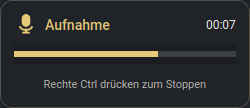
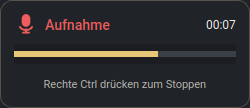
Use distinct red recording and orange processing status colours

Changed region(s): [[0.168, 0.1667, 0.448, 0.2778], [0.056, 0.1111, 0.14, 0.3333]]

diff --git a/tests/test_state_machine.py b/tests/test_state_machine.py
@@ -893,6 +893,26 @@ class TestMainWindowControl:
         QCoreApplication.sendPostedEvents(None, QEvent.Type.DeferredDelete)
         QTest.qWait(20)
 
+    def test_overlay_and_tray_use_red_recording_and_orange_processing(self, gui_app):
+        from collections import Counter
+
+        for state in ("RECORDING", "TRANSCRIBING", "LLM_REWRITING"):
+            gui_app._set_state(state, "test indicator colour")
+            overlay = gui_app._recording_overlay
+            assert overlay.isVisible()
+            image = overlay.icon.pixmap().toImage()
+            assert image == gui_app.tray_icon.icon().pixmap(24, 24).toImage()
+            opaque = [image.pixelColor(x, y).getRgb()[:3]
+                      for x in range(image.width()) for y in range(image.height())
+                      if image.pixelColor(x, y).alpha() > 240]
+            (red, green, blue), _ = Counter(opaque).most_common(1)[0]
+            if state == "RECORDING":
+                assert red > green * 1.5 and red > blue * 1.5
+            else:
+                assert red > green > blue and green > 120 and red - green > 40
+        gui_app._set_state("IDLE", "test finished")
+        assert not gui_app._recording_overlay.isVisible()
+
     def test_dictation_mode_syncs_window_and_tray(self, gui_app):
         win = gui_app._ensure_main_window()
         gui_app.set_dictation_mode(True)

diff --git a/app/theme.py b/app/theme.py
@@ -38,8 +38,10 @@ APP_TEXT_DIM = "#bab8b1"
 APP_TEXT_FAINT = "#8e8d88"
 
 STATE_IDLE = "#86c99a"
-STATE_RECORDING = BLITZ_400
-STATE_PROCESSING = BLITZ_300
+# Status colours must remain distinguishable from the gold branding and from
+# each other. The tray and recording overlay share these same values.
+STATE_RECORDING = "#f05c5c"
+STATE_PROCESSING = "#f0ad4e"
 STATE_ERROR = "#e88787"
 STATE_WARNING = "#e7bd70"
 

diff --git a/README.de.md b/README.de.md
@@ -71,8 +71,9 @@ den **Systemtray unsichtbar macht**.
   Pegelanzeige. Die Box bleibt bis zum Abschluss, Fehler oder Verwerfen sichtbar;
   die gesamte Laufzeit zählt weiter.
 - Das Mikrofon übernimmt **dasselbe Symbol und dieselben Statusfarben wie der
-  Tray**: Gold für Aufnahme und Hellgold für Verarbeitung. Grün steht für bereit,
-  Rot für einen Fehler.
+  Tray**: **Rot für Aufnahme**, **Orange für Transkription / KI-Verarbeitung**.
+  Grün steht für bereit, Hellrot für einen Fehler. Die Statusfarben sind von den
+  goldenen Bedienelementen getrennt.
 - Blitztext startet nur im Systemtray; das Hauptfenster wird bei Bedarf geöffnet.
 
 Die Bilder sind Aufnahmen der tatsächlichen Qt-Oberfläche mit demonstriertem
@@ -235,17 +236,17 @@ Das Mikrofon im System-Tray ist dein Indikator für den aktuellen Zustand:
       </td>
       <td align="center" width="25%">
         <img src="docs/screenshots/linux/tray-recording.png" width="60"><br><br>
-        <b>Gold</b> (RECORDING)<br>
+        <b>Rot</b> (RECORDING)<br>
         <i>Aufnahme läuft aktiv.</i>
       </td>
       <td align="center" width="25%">
         <img src="docs/screenshots/linux/tray-processing.png" width="60"><br><br>
-        <b>Pale gold</b> (TRANSCRIBING / LLM_REWRITING)<br>
+        <b>Orange</b> (TRANSCRIBING / LLM_REWRITING)<br>
         <i>Magie läuft (Transkription / KI-Umformulierung).</i>
       </td>
       <td align="center" width="25%">
         <img src="docs/screenshots/linux/tray-error.png" width="60"><br><br>
-        <b>Rot</b> (ERROR)<br>
+        <b>Hellrot</b> (ERROR)<br>
         <i>Ups, etwas ist schiefgelaufen.</i>
       </td>
     </tr>
@@ -297,7 +298,7 @@ Das Hauptfenster ist ein kompaktes, rahmenloses Desktop-Widget mit einheitlicher
 - **Zentrales Gold-Mikrofon:** Markanter kreisrunder Button mit metallischem Farbverlauf und Blitz-Aussparung. Klick startet oder beendet die Aufnahme.
 - **Dynamische visuelle Rückmeldung:**
   - **Bereit (IDLE):** Grüner Statuspunkt und Zeitanzeige (`Bereit: 00:00`).
-  - **Aufnahme (RECORDING):** Gelber Statuspunkt, sekundengenaue Zeitanzeige und animierte Wellenbalken links und rechts des Mikrofons.
+  - **Aufnahme (RECORDING):** Roter Statuspunkt, sekundengenaue Zeitanzeige und animierte Wellenbalken links und rechts des Mikrofons.
   - **Verarbeitung (TRANSCRIBING):** Rotierender goldener Kreisbogen um das Mikrofon (`Transkribiere…`).
 - **Umschalter Lokal | Mit KI:** Zwei Knöpfe direkt unter dem Mikrofon. **Lokal** = Transkription ohne KI-Nachbearbeitung; mit einem lokalen Spracherkennungs-Backend bleibt das Audio auf dem Rechner. **Mit KI** ergänzt die Bearbeitung durch den konfigurierten KI-Endpunkt, zum Beispiel den GX10. Die gewählte Seite ist gold; die Zustandszeile darunter (zum Beispiel `Lokal · Whisper base` oder `Mit KI · OpenAI · Verbessern`) zeigt, was die nächste Aufnahme tut, und öffnet per Klick das Detail-Popup. Hotkey-Workflows stellen den Umschalter auf die passende Seite, während der Aufnahme ist er gesperrt.
 - **Kompakte Werkzeugleiste:**

diff --git a/README.md b/README.md
@@ -66,8 +66,9 @@ full-screen application, or the desktop layout keeps the **system tray out of vi
 - After recording: the level is replaced by **Transcribing…** or
   **Processing with AI…**. The box stays open and the total elapsed time continues
   until the workflow finishes, fails, or is discarded.
-- The microphone uses the **same icon and status colours as the tray**: gold for
-  recording and pale gold for processing. Green means ready; red means an error.
+- The microphone uses the **same icon and status colours as the tray**: **red for
+  recording** and **orange for transcription / AI processing**. Green means ready;
+  pale red means an error. The normal colour scheme is separate from gold UI accents.
 - Blitztext starts in the tray; the main window opens only on request.
 
 These are captures of the actual Qt widgets with a synthetic demonstration level
@@ -227,17 +228,17 @@ The microphone in the system tray is your indicator of the current state:
       </td>
       <td align="center" width="25%">
         <img src="docs/screenshots/linux/tray-recording.png" width="60"><br><br>
-        <b>Gold</b> (RECORDING)<br>
+        <b>Red</b> (RECORDING)<br>
         <i>Recording is actively running.</i>
       </td>
       <td align="center" width="25%">
         <img src="docs/screenshots/linux/tray-processing.png" width="60"><br><br>
-        <b>Pale gold</b> (TRANSCRIBING / LLM_REWRITING)<br>
+        <b>Orange</b> (TRANSCRIBING / LLM_REWRITING)<br>
         <i>Magic in progress (transcription / AI rephrasing).</i>
       </td>
       <td align="center" width="25%">
         <img src="docs/screenshots/linux/tray-error.png" width="60"><br><br>
-        <b>Red</b> (ERROR)<br>
+        <b>Pale red</b> (ERROR)<br>
         <i>Oops, something went wrong.</i>
       </td>
     </tr>
@@ -289,7 +290,7 @@ The main window is a compact, frameless desktop widget with a consistent dark lo
 - **Central gold microphone:** Prominent circular button with metallic gradient and lightning bolt cut-out. Click to toggle recording on and off.
 - **Dynamic visual feedback:**
   - **Idle:** Green status dot with duration counter (`Ready: 00:00`).
-  - **Recording:** Amber indicator, live recording timer, and animated stereo wave bars flanking the mic.
+  - **Recording:** Red status indicator, live recording timer, and animated stereo wave bars flanking the mic.
   - **Processing:** Rotating gold progress ring around the microphone (`Transcribing…`).
 - **Local | With AI switch:** Two buttons right under the microphone. **Local** = transcription without LLM rewriting; use a local speech backend to keep audio on the machine. **With AI** adds rewriting through the configured AI endpoint (for example, the GX10). The chosen side is gold; the state line below it (for example `Local · Whisper base` or `With AI · OpenAI · Improve`) shows what the next recording does and opens the details popup when clicked. Hotkey workflows move the switch to the matching side, and it is locked while recording.
 - **Tool row:**

diff --git a/docs/local-customizations.md b/docs/local-customizations.md
@@ -53,6 +53,10 @@ KDE/Wayland.
   mit `local-2026-10-28` markiert. Manuell startbare GitHub-CI ergänzt.
 - README in Englisch und Deutsch auf den Fork ausgerichtet; aktuelle Screenshots
   der Statusbox in drei Zuständen, Tray-Menüs und Symbolfarben ergänzt.
+- Statusfarben nach Nutzerprüfung deutlicher getrennt: Aufnahme Rot
+  (`#f05c5c`), Transkription/KI-Verarbeitung Orange (`#f0ad4e`), Bereit Grün,
+  Fehler Hellrot. Zentrale Theme-Werte gelten identisch für Tray und Statusbox;
+  bisherige ähnliche Goldtöne ersetzt, Dokumentation und Screenshots aktualisiert.
 
 ### Validierung des ersten Stands
 
